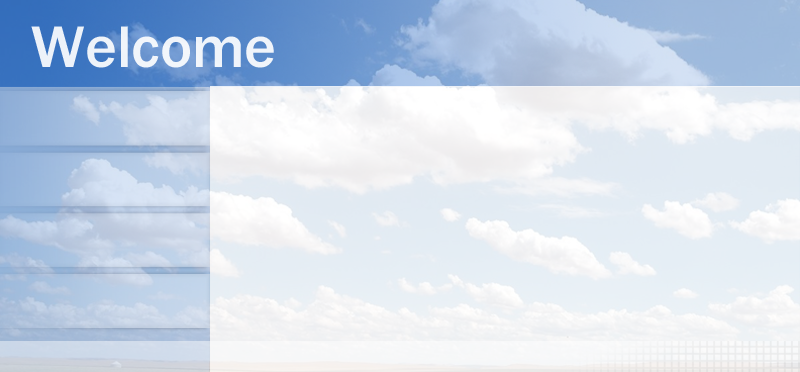
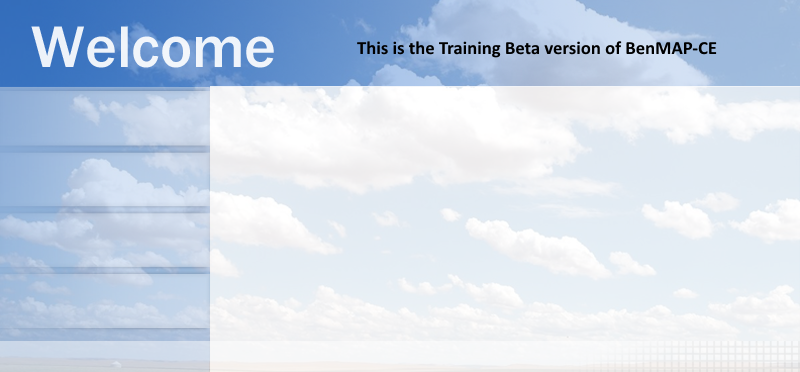
Several minor bug fixes and updated version #

Changed region(s): [[0.4375, 0.0887, 0.9062, 0.1478]]

diff --git a/BenMAP/BenMap.Designer.cs b/BenMAP/BenMap.Designer.cs
@@ -730,8 +730,8 @@ namespace BenMAP
             this.picCRHelp.TabStop = false;
             this.picCRHelp.Tag = "";
             this.toolTip1.SetToolTip(this.picCRHelp, "Double click datagrid to create result.\r\nIf you choose \'Create All\',GIS Map/Table" +
-                    "/Chart results will be created.\r\nIf you choose \'Active Study Only\',Only one acti" +
-                    "ve result will be created.");
+        "/Chart results will be created.\r\nIf you choose \'Active Study Only\',Only one acti" +
+        "ve result will be created.");
             this.picCRHelp.Visible = false;
             this.picCRHelp.Click += new System.EventHandler(this.picCRHelp_Click);
             // 
@@ -1126,9 +1126,9 @@ namespace BenMAP
             // 
             // trvSetting
             // 
-            this.trvSetting.Anchor = ((System.Windows.Forms.AnchorStyles)((((System.Windows.Forms.AnchorStyles.Top | System.Windows.Forms.AnchorStyles.Bottom)
-                        | System.Windows.Forms.AnchorStyles.Left)
-                        | System.Windows.Forms.AnchorStyles.Right)));
+            this.trvSetting.Anchor = ((System.Windows.Forms.AnchorStyles)((((System.Windows.Forms.AnchorStyles.Top | System.Windows.Forms.AnchorStyles.Bottom) 
+            | System.Windows.Forms.AnchorStyles.Left) 
+            | System.Windows.Forms.AnchorStyles.Right)));
             this.trvSetting.BorderStyle = System.Windows.Forms.BorderStyle.None;
             this.trvSetting.HideSelection = false;
             this.trvSetting.ImageKey = "yibu.gif";
@@ -1898,7 +1898,7 @@ namespace BenMAP
             this.rbAuditFile.Size = new System.Drawing.Size(551, 18);
             this.rbAuditFile.TabIndex = 1;
             this.rbAuditFile.Text = "Audit Trail Reports (Created from *.aqgx files, *.cfgx files, *.cfgrx files, *.ap" +
-                "vx files and *.apvrx files)";
+    "vx files and *.apvrx files)";
             this.rbAuditFile.UseVisualStyleBackColor = true;
             this.rbAuditFile.Click += new System.EventHandler(this.rbAuditFile_Click);
             // 
@@ -2191,9 +2191,9 @@ namespace BenMAP
             // 
             // legend1
             // 
-            this.legend1.Anchor = ((System.Windows.Forms.AnchorStyles)((((System.Windows.Forms.AnchorStyles.Top | System.Windows.Forms.AnchorStyles.Bottom)
-                        | System.Windows.Forms.AnchorStyles.Left)
-                        | System.Windows.Forms.AnchorStyles.Right)));
+            this.legend1.Anchor = ((System.Windows.Forms.AnchorStyles)((((System.Windows.Forms.AnchorStyles.Top | System.Windows.Forms.AnchorStyles.Bottom) 
+            | System.Windows.Forms.AnchorStyles.Left) 
+            | System.Windows.Forms.AnchorStyles.Right)));
             this.legend1.BackColor = System.Drawing.Color.White;
             this.legend1.ControlRectangle = new System.Drawing.Rectangle(-20, -5, 165, 456);
             this.legend1.DocumentRectangle = new System.Drawing.Rectangle(0, 0, 168, 456);
@@ -2589,8 +2589,8 @@ namespace BenMAP
             // 
             // btnSelectAll
             // 
-            this.btnSelectAll.Anchor = ((System.Windows.Forms.AnchorStyles)(((System.Windows.Forms.AnchorStyles.Bottom | System.Windows.Forms.AnchorStyles.Left)
-                        | System.Windows.Forms.AnchorStyles.Right)));
+            this.btnSelectAll.Anchor = ((System.Windows.Forms.AnchorStyles)(((System.Windows.Forms.AnchorStyles.Bottom | System.Windows.Forms.AnchorStyles.Left) 
+            | System.Windows.Forms.AnchorStyles.Right)));
             this.btnSelectAll.Location = new System.Drawing.Point(8, 324);
             this.btnSelectAll.Name = "btnSelectAll";
             this.btnSelectAll.Size = new System.Drawing.Size(153, 23);
@@ -2601,8 +2601,8 @@ namespace BenMAP
             // 
             // cbGraph
             // 
-            this.cbGraph.Anchor = ((System.Windows.Forms.AnchorStyles)(((System.Windows.Forms.AnchorStyles.Top | System.Windows.Forms.AnchorStyles.Left)
-                        | System.Windows.Forms.AnchorStyles.Right)));
+            this.cbGraph.Anchor = ((System.Windows.Forms.AnchorStyles)(((System.Windows.Forms.AnchorStyles.Top | System.Windows.Forms.AnchorStyles.Left) 
+            | System.Windows.Forms.AnchorStyles.Right)));
             this.cbGraph.DropDownStyle = System.Windows.Forms.ComboBoxStyle.DropDownList;
             this.cbGraph.DropDownWidth = 200;
             this.cbGraph.FormattingEnabled = true;
@@ -2617,8 +2617,8 @@ namespace BenMAP
             // 
             // groupBox1
             // 
-            this.groupBox1.Anchor = ((System.Windows.Forms.AnchorStyles)(((System.Windows.Forms.AnchorStyles.Bottom | System.Windows.Forms.AnchorStyles.Left)
-                        | System.Windows.Forms.AnchorStyles.Right)));
+            this.groupBox1.Anchor = ((System.Windows.Forms.AnchorStyles)(((System.Windows.Forms.AnchorStyles.Bottom | System.Windows.Forms.AnchorStyles.Left) 
+            | System.Windows.Forms.AnchorStyles.Right)));
             this.groupBox1.Controls.Add(this.cbChartXAxis);
             this.groupBox1.Location = new System.Drawing.Point(5, 353);
             this.groupBox1.Name = "groupBox1";
@@ -2640,8 +2640,8 @@ namespace BenMAP
             // 
             // groupBox9
             // 
-            this.groupBox9.Anchor = ((System.Windows.Forms.AnchorStyles)(((System.Windows.Forms.AnchorStyles.Bottom | System.Windows.Forms.AnchorStyles.Left)
-                        | System.Windows.Forms.AnchorStyles.Right)));
+            this.groupBox9.Anchor = ((System.Windows.Forms.AnchorStyles)(((System.Windows.Forms.AnchorStyles.Bottom | System.Windows.Forms.AnchorStyles.Left) 
+            | System.Windows.Forms.AnchorStyles.Right)));
             this.groupBox9.Controls.Add(this.textChartFilter);
             this.groupBox9.Location = new System.Drawing.Point(5, 408);
             this.groupBox9.Name = "groupBox9";
@@ -2666,9 +2666,9 @@ namespace BenMAP
             this.olvRegions.AllColumns.Add(this.olvColumn70);
             this.olvRegions.AllowColumnReorder = true;
             this.olvRegions.AllowDrop = true;
-            this.olvRegions.Anchor = ((System.Windows.Forms.AnchorStyles)((((System.Windows.Forms.AnchorStyles.Top | System.Windows.Forms.AnchorStyles.Bottom)
-                        | System.Windows.Forms.AnchorStyles.Left)
-                        | System.Windows.Forms.AnchorStyles.Right)));
+            this.olvRegions.Anchor = ((System.Windows.Forms.AnchorStyles)((((System.Windows.Forms.AnchorStyles.Top | System.Windows.Forms.AnchorStyles.Bottom) 
+            | System.Windows.Forms.AnchorStyles.Left) 
+            | System.Windows.Forms.AnchorStyles.Right)));
             this.olvRegions.CellEditActivation = BrightIdeasSoftware.ObjectListView.CellEditActivateMode.SingleClick;
             this.olvRegions.CheckBoxes = true;
             this.olvRegions.CheckedAspectName = "";
@@ -2800,9 +2800,9 @@ namespace BenMAP
             // 
             // trvAuditTrialReport
             // 
-            this.trvAuditTrialReport.Anchor = ((System.Windows.Forms.AnchorStyles)((((System.Windows.Forms.AnchorStyles.Top | System.Windows.Forms.AnchorStyles.Bottom)
-                        | System.Windows.Forms.AnchorStyles.Left)
-                        | System.Windows.Forms.AnchorStyles.Right)));
+            this.trvAuditTrialReport.Anchor = ((System.Windows.Forms.AnchorStyles)((((System.Windows.Forms.AnchorStyles.Top | System.Windows.Forms.AnchorStyles.Bottom) 
+            | System.Windows.Forms.AnchorStyles.Left) 
+            | System.Windows.Forms.AnchorStyles.Right)));
             this.trvAuditTrialReport.BackColor = System.Drawing.Color.White;
             this.trvAuditTrialReport.Location = new System.Drawing.Point(0, 0);
             this.trvAuditTrialReport.Name = "trvAuditTrialReport";

diff --git a/BenMAP/DataSource/MonitorRollback.cs b/BenMAP/DataSource/MonitorRollback.cs
@@ -57,18 +57,24 @@ namespace BenMAP
                     txtPollutant.Text = _bgc.Pollutant.PollutantName;
                     txtPollutant.Enabled = false;
                 }
-                commandText = string.Format("select MonitorDataSetID, MonitorDataSetName from MonitorDataSets where SetupID={0}  and MonitorDataSetID in (select distinct MonitorDataSetID from monitors where pollutantID={1}) order by MonitorDataSetName asc", CommonClass.MainSetup.SetupID, _bgc.Pollutant.PollutantID);
-                ds = fb.ExecuteDataset(CommonClass.Connection, new CommandType(), commandText);
-                cboMonitorDataSet.DataSource = ds.Tables[0];
-                cboMonitorDataSet.DisplayMember = "MonitorDataSetName";
-                cboMonitorDataSet.SelectedIndex = 0;
-
+                
                 fb = new ESIL.DBUtility.ESILFireBirdHelper();
                 commandText = string.Format("select * from GridDefinitions where SetupID={0} order by GridDefinitionName asc ", CommonClass.MainSetup.SetupID);
                 dsGrid = fb.ExecuteDataset(CommonClass.Connection, new CommandType(), commandText);
                 cboRollbackGridType.DataSource = dsGrid.Tables[0];
                 cboRollbackGridType.DisplayMember = "GridDefinitionName";
                 cboRollbackGridType.SelectedIndex = -1;
+
+                commandText = string.Format("select MonitorDataSetID, MonitorDataSetName from MonitorDataSets where SetupID={0}  and MonitorDataSetID in (select distinct MonitorDataSetID from monitors where pollutantID={1}) order by MonitorDataSetName asc", CommonClass.MainSetup.SetupID, _bgc.Pollutant.PollutantID);
+                ds = fb.ExecuteDataset(CommonClass.Connection, new CommandType(), commandText);
+                cboMonitorDataSet.DataSource = ds.Tables[0];
+                cboMonitorDataSet.DisplayMember = "MonitorDataSetName";
+                if (cboMonitorDataSet.Items.Count > 0)
+                {
+                    cboMonitorDataSet.SelectedIndex = 0;
+                }
+
+
             }
             catch (Exception ex)
             {

diff --git a/BenMAP/Properties/AssemblyInfo.cs b/BenMAP/Properties/AssemblyInfo.cs
@@ -2,8 +2,8 @@ using System.Reflection;
 using System.Runtime.CompilerServices;
 using System.Runtime.InteropServices;
 
-[assembly: AssemblyTitle("BenMAP-CE 1.0.14")]
-[assembly: AssemblyDescription("U.S. EPA, 2014. Environmental Benefits Mapping and Analysis Program - Community Edition (Version 1.0.14), 2014. Research Triangle Park, NC. Available on the Internet at <http://www.epa.gov/air/benmap/>.\r\nBenMAP-CE is free and open source software. Requests for the source code, as well as comments and questions, should be sent to benmap@epa.gov.")]
+[assembly: AssemblyTitle("BenMAP-CE 1.0.16 Training Beta")]
+[assembly: AssemblyDescription("U.S. EPA, 2014. Environmental Benefits Mapping and Analysis Program - Community Edition (Version 1.0.16), 2014. Research Triangle Park, NC. Available on the Internet at <http://www.epa.gov/air/benmap/>.\r\nBenMAP-CE is free and open source software. Requests for the source code, as well as comments and questions, should be sent to benmap@epa.gov.")]
 [assembly: AssemblyConfiguration("")]
 [assembly: AssemblyCompany("")]
 [assembly: AssemblyProduct("Environmental Benefits Mapping and Analysis Program - Community Edition (BenMAP-CE)")]
@@ -15,7 +15,7 @@ using System.Runtime.InteropServices;
 
 [assembly: Guid("9285e0f8-4591-4b24-b47f-9e103d6fe03d")]
 
-[assembly: AssemblyVersion("1.0.14")]
-[assembly: AssemblyFileVersion("1.0.14")]
+[assembly: AssemblyVersion("1.0.16")]
+[assembly: AssemblyFileVersion("1.0.16")]
 
 [assembly: System.Runtime.CompilerServices.InternalsVisibleTo("TestProject1")]

diff --git a/BenMAP/DataSource/MonitorRollbackSettings2.cs b/BenMAP/DataSource/MonitorRollbackSettings2.cs
@@ -96,7 +96,11 @@ namespace BenMAP
                         feature = new Feature(point);
                         fsPoints.AddFeature(feature);
                     }
-                    mainMap.Layers.Add(fsPoints);
+                    MapPointLayer mpl = new MapPointLayer(fsPoints);
+                    mpl.Symbolizer = new PointSymbolizer();
+                    mpl.Symbolizer.SetFillColor(Color.FromArgb(0,255,255));
+                    mpl.Symbolizer.SetOutline(Color.Black, 1);
+                    mainMap.Layers.Add(mpl);
                 }
             }
             catch (Exception ex)
@@ -109,7 +113,19 @@ namespace BenMAP
         {
             try
             {
-                if (_monitorRollbackLine.BenMAPRollbacks.Count < 1) { MessageBox.Show("You must select at least one region."); return; }
+                if (_monitorRollbackLine.BenMAPRollbacks.Count < 1) 
+                { 
+                    MessageBox.Show("You must add at least one region."); 
+                    return; 
+                }
+                foreach (BenMAPRollback brb in _monitorRollbackLine.BenMAPRollbacks)
+                {
+                    if (brb.SelectRegions.Count < 1)
+                    {
+                        MessageBox.Show("Region "+brb.RegionID + " does not have any areas selected");
+                        return;
+                    }
+                }
                 if (chbExportAfterRollback.Checked)
                 {
                     SaveFileDialog saveFileDialog1 = new SaveFileDialog();

diff --git a/BenMAP/BenMap.cs b/BenMAP/BenMap.cs
@@ -3424,7 +3424,7 @@ namespace BenMAP
                 {
                     bool ChinaNationLayFound = false;
                     bool ChinaRegionLayFound = false;
-                    string ChinaDataPath = System.Windows.Forms.Application.StartupPath + @"\Data\Shapefiles\China\";  /// MCB- Should this be the PROGRAMDATA Path instead???? 
+                    string ChinaDataPath = Environment.GetFolderPath(Environment.SpecialFolder.CommonApplicationData) + @"\BenMap-CE\Data\Shapefiles\China\";  /// MCB- Should this be the PROGRAMDATA Path instead???? 
                     ChinaRegionLayFound = mainMap.GetAllLayers().Any<ILayer>(mylay => mylay.LegendText == "Nation");
                     ChinaNationLayFound = mainMap.GetAllLayers().Any<ILayer>(mylay => mylay.LegendText == "Regions");
 
@@ -3465,7 +3465,7 @@ namespace BenMAP
                     bool CountiesLayFound = false;
                     bool StatesLayFound = false;
                     bool USNationLayFound = false;
-                    string USDataPath = System.Windows.Forms.Application.StartupPath + @"\Data\Shapefiles\United States\";
+                    string USDataPath = Environment.GetFolderPath(Environment.SpecialFolder.CommonApplicationData) + @"\BenMap-CE\Data\Shapefiles\United States\";
 
                     //Add US Counties if it is not on the map yet -----------------------
                     CountiesLayFound = mainMap.GetAllLayers().Any<ILayer>(mylay => mylay.LegendText == "Counties");

diff --git a/BenMAP/UserControl/PercentageControl.cs b/BenMAP/UserControl/PercentageControl.cs
@@ -60,6 +60,16 @@ namespace BenMAP.DataSource
             try
             {
                 _PercentageRollback.Percent = Double.Parse(txtPercent.Text);
+                if (_PercentageRollback.Percent < 0.0)
+                {
+                    txtPercent.Text = "0.00";
+                    _PercentageRollback.Percent = 0.0;
+                }
+                if (_PercentageRollback.Percent > 100.0)
+                {
+                    txtPercent.Text = "100.00";
+                    _PercentageRollback.Percent = 100.0;
+                }
             }
             catch
             { txtPercent.Text = "0.00"; }
@@ -70,6 +80,11 @@ namespace BenMAP.DataSource
             try
             {
                 _PercentageRollback.Background = Double.Parse(txtBackground.Text);
+                if (_PercentageRollback.Background < 0.0)
+                {
+                    txtBackground.Text = "0.00";
+                    _PercentageRollback.Background = 0.0;
+                }
             }
             catch
             { txtBackground.Text = "0.00"; }

diff --git a/BenMAP/Tools/ValidateDatabaseImport.cs b/BenMAP/Tools/ValidateDatabaseImport.cs
@@ -779,7 +779,7 @@ namespace BenMAP
                         {
                             if (float.TryParse(valToVerify, out longitude))
                             {
-                                if (longitude < -180 || longitude > 80)
+                                if (longitude < -180 || longitude > 180)
                                 {
                                     errMsg = "Longitude must be between -180 and 180 degrees inclusive";
                                 }

diff --git a/BenMAP/FireBirdHelper/Properties/AssemblyInfo.cs b/BenMAP/FireBirdHelper/Properties/AssemblyInfo.cs
@@ -32,5 +32,5 @@ using System.Runtime.InteropServices;
 // You can specify all the values or you can default the Build and Revision Numbers 
 // by using the '*' as shown below:
 // [assembly: AssemblyVersion("1.0.*")]
-[assembly: AssemblyVersion("1.0.14")]
-[assembly: AssemblyFileVersion("1.0.14")]
+[assembly: AssemblyVersion("1.0.16")]
+[assembly: AssemblyFileVersion("1.0.16")]
